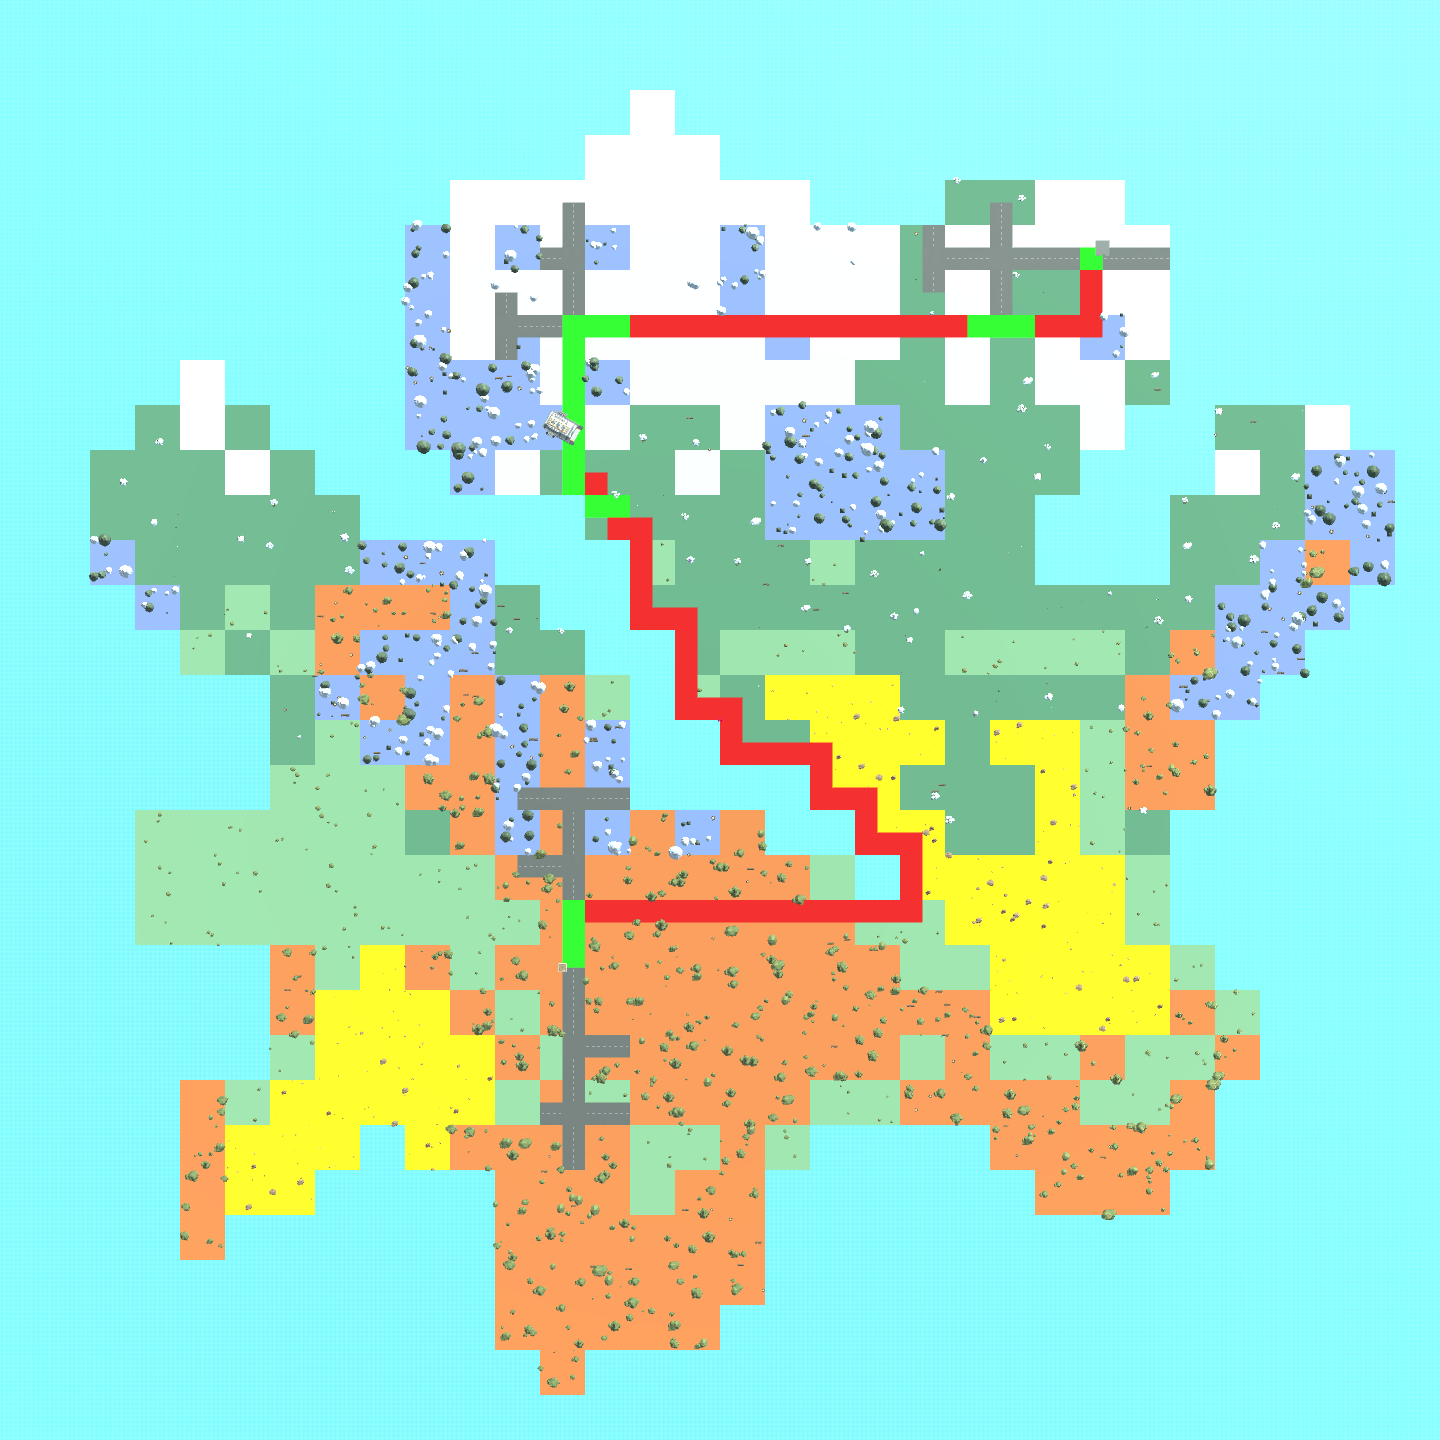
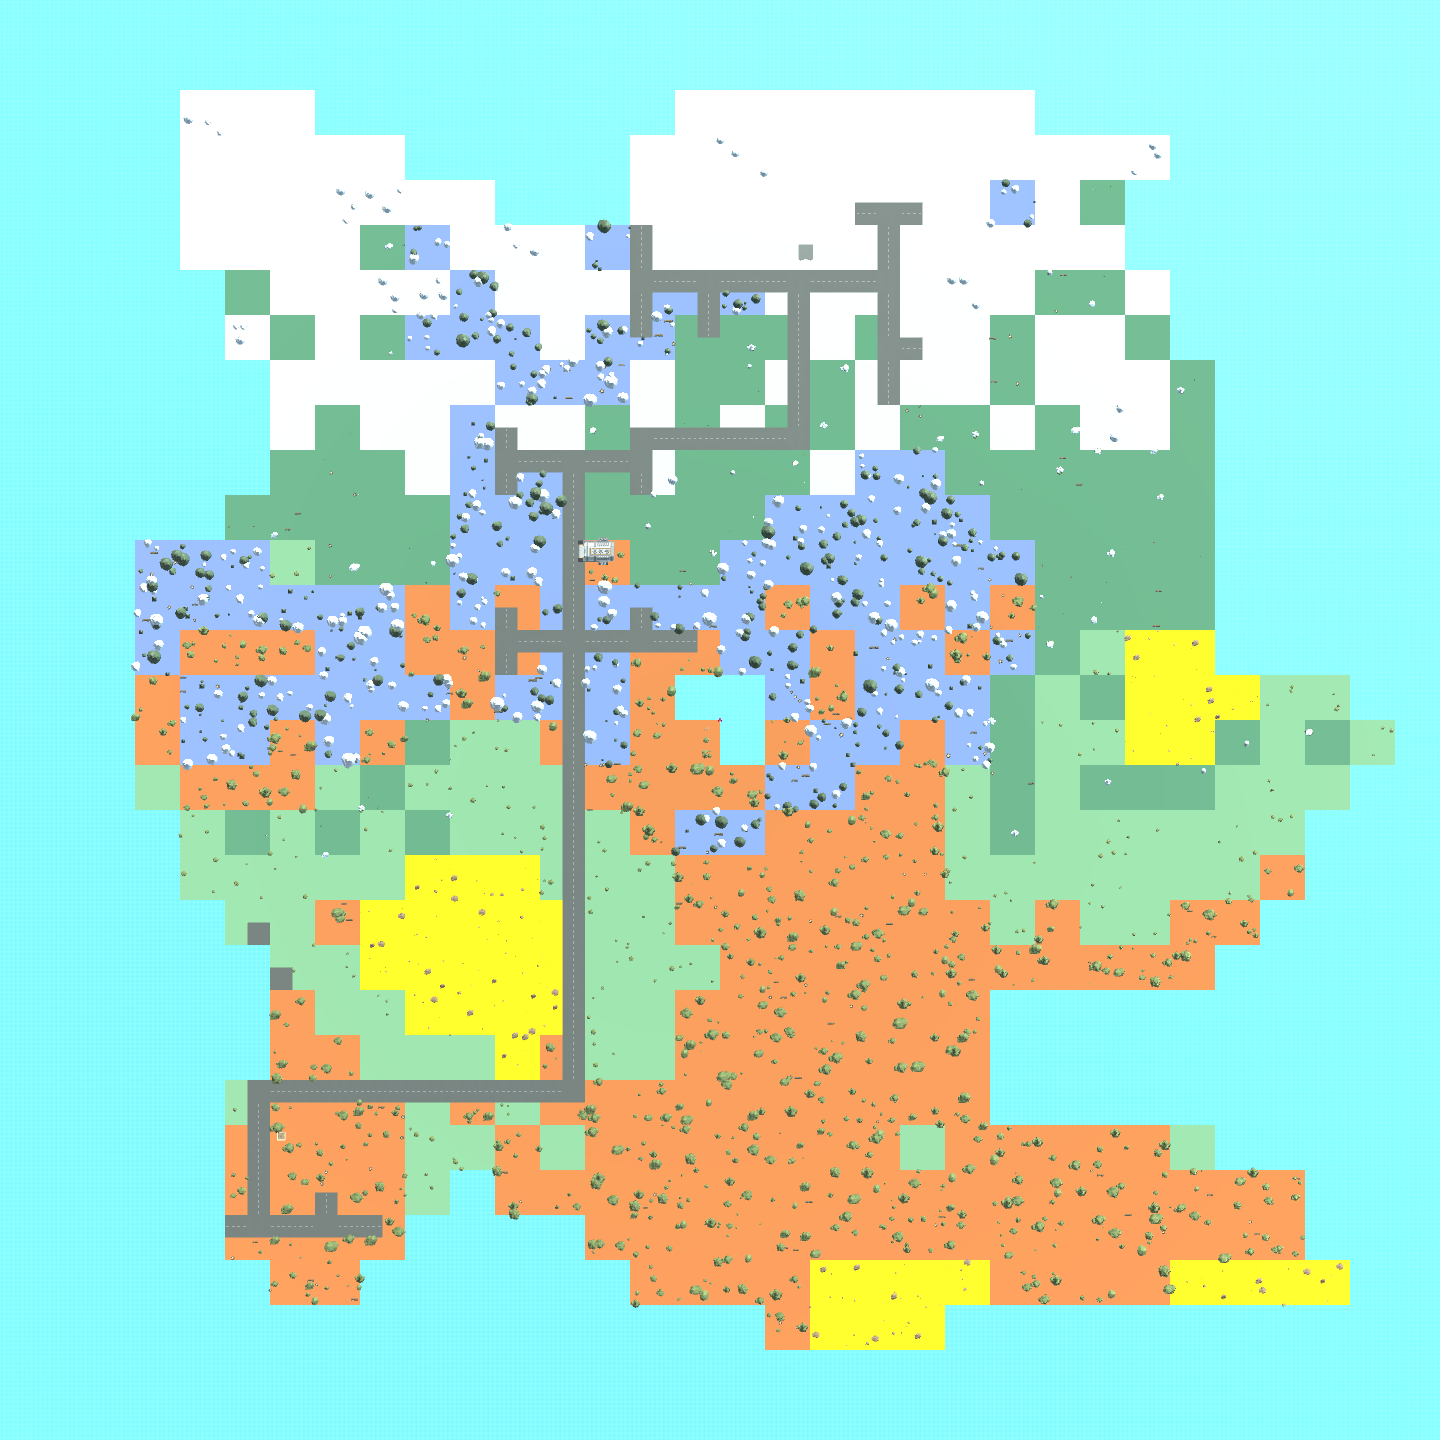
update: integrate bases into town buildings
also,
- crosshair color
- version number (release)

diff --git a/Assets/Scripts/PCG/Generators/Towns/TownGenerator.cs b/Assets/Scripts/PCG/Generators/Towns/TownGenerator.cs
@@ -1,4 +1,5 @@
 using System.Collections.Generic;
+using Managers.Quests;
 using PCG.Generators.Roads;
 using UnityEngine;
 
@@ -7,29 +8,31 @@ namespace PCG.Generators.Towns
     public class TownGenerator : MonoBehaviour
     {
         [SerializeField] private LSystem lSystem;
-        [SerializeField] private GameObject buildingPrefab;
         [SerializeField] private int initialLength = 4;
 
         [SerializeField] private RoadGridComponent roadGridComponent;
 
-        public void GenerateTowns(List<Vector3> basePositions)
+        [SerializeField] private Transform basesParent;
+        [SerializeField] private QuestsManager questsManager;
+
+        public void GenerateTownsRoads(List<Vector3> townCentersWorld)
         {
-            foreach (Vector3 basePosition in basePositions) {
-                GenerateTown(basePosition);
+            foreach (Vector3 townCenterWorld in townCentersWorld) {
+                Vector3Int centerCell = roadGridComponent.grid.WorldToCell(townCenterWorld);
+                GenerateTownRoads(centerCell);
             }
         }
 
-        private void GenerateTown(Vector3 center)
+        private void GenerateTownRoads(Vector3Int centerCell)
         {
             string sentence = lSystem.GenerateSentence();
             // Debug.Log("sentence: " + sentence);
-            ParseSentence(sentence, center);
+            ParseSentence(sentence, centerCell);
         }
 
-        private void ParseSentence(string sentence, Vector3 center)
+        private void ParseSentence(string sentence, Vector3Int cell)
         {
             Stack<TransformInfo> transformStack = new Stack<TransformInfo>();
-            Vector3Int position = roadGridComponent.grid.WorldToCell(center);
             Quaternion rotation = Quaternion.identity;
             rotation *= Quaternion.Euler(Vector3.up * 90 * Random.Range(0, 4));
             int length = initialLength;
@@ -38,10 +41,10 @@ namespace PCG.Generators.Towns
                 switch (c) {
                     case 'F':
                         for (int i = 0; i < length; i++) {
-                            if (roadGridComponent.IsWalkable(position)) {
-                                roadGridComponent.roadCells.Add(position);
+                            if (roadGridComponent.IsWalkable(cell)) {
+                                roadGridComponent.roadCells.Add(cell);
                             }
-                            position += Vector3Int.RoundToInt(rotation * Vector3.forward);
+                            cell += Vector3Int.RoundToInt(rotation * Vector3.forward);
                         }
                         length -= 1;
                         break;
@@ -54,23 +57,20 @@ namespace PCG.Generators.Towns
                     case '[':
                         // Save
                         transformStack.Push(new TransformInfo {
-                            position = position,
+                            position = cell,
                             rotation = rotation,
                             length = length
                         });
                         break;
+
                     case ']':
                         // Load
                         if (transformStack.Count > 0) {
                             TransformInfo ti = transformStack.Pop();
-                            position = ti.position;
+                            cell = ti.position;
                             rotation = ti.rotation;
                             length = ti.length;
                         }
-                        break;
-                    case 'B':
-                        GameObject building = Instantiate(buildingPrefab);
-                        building.transform.position = position;
                         break;
                     default:
                         break;
@@ -83,6 +83,65 @@ namespace PCG.Generators.Towns
             public Vector3Int position;
             public Quaternion rotation;
             public int length;
+        }
+
+        public void PlaceTownsBuildings(List<Vector3> townCentersWorld)
+        {
+            for (int i = 0; i < townCentersWorld.Count; i++) {
+                Vector3Int centerCell = roadGridComponent.grid.WorldToCell(townCentersWorld[i]);
+                PlaceTownBuildings(i, centerCell);
+            }
+        }
+
+        private void PlaceTownBuildings(int i, Vector3Int centerCell)
+        {
+            Vector3Int buildingCell = SelectCellForCentralBuilding(centerCell);
+            if (buildingCell == new Vector3Int(0, -1, 0)) {
+                return;
+            }
+
+            // Calculate position
+            Vector3 position = roadGridComponent.grid.GetCellCenterWorld(buildingCell);
+            position.y = 0;
+            // Calculate Rotation
+            List<Vector3Int> neighbors = roadGridComponent.GetNeighborCells(buildingCell);
+            Quaternion rotation = Quaternion.identity;
+            foreach (Vector3Int neighbor in neighbors) {
+                if (roadGridComponent.roadCells.Contains(neighbor)) {
+                    rotation = Quaternion.LookRotation(Vector3.Normalize(neighbor - buildingCell));
+                }
+            }
+
+            // Place base in the center
+            GameObject researchBase = Instantiate(questsManager.quests[i].basePrefab, position, rotation, basesParent);
+
+            // Assign this research base to the corresponding quest
+            questsManager.quests[i].AssignDestinationGo(researchBase);
+        }
+
+        private Vector3Int SelectCellForCentralBuilding(Vector3Int startCell)
+        {
+            Queue<Vector3Int> queue = new Queue<Vector3Int>();
+            queue.Enqueue(startCell);
+            HashSet<Vector3Int> visited = new HashSet<Vector3Int>();
+            visited.Add(startCell);
+
+            while (queue.Count > 0) {
+                Vector3Int currentCell = queue.Dequeue();
+                if (!roadGridComponent.roadCells.Contains(currentCell)) {
+                    return currentCell;
+                }
+
+                List<Vector3Int> neighbors = roadGridComponent.GetNeighborCells(currentCell);
+                foreach (Vector3Int neighbor in neighbors) {
+                    if (!visited.Contains(neighbor)) {
+                        queue.Enqueue(neighbor);
+                        visited.Add(neighbor);
+                    }
+                }
+            }
+
+            return new Vector3Int(0, -1, 0);
         }
     }
 }

diff --git a/Assets/Scripts/PCG/Generators/ActorsPlacer.cs b/Assets/Scripts/PCG/Generators/ActorsPlacer.cs
@@ -23,14 +23,12 @@ namespace PCG.Generators
         private Biome[] biomes;
 
         [Header("Environment")]
-        [SerializeField] private Transform basesParent;
         [SerializeField] private Transform foliageParent;
         [SerializeField] private Transform combatRobotsParent;
         [SerializeField] private Transform vehiclesParent;
         [SerializeField] private Transform zombiesParent;
 
         private readonly HashSet<Chunk> humanActivityChunks = new HashSet<Chunk>();
-        public List<Vector3> basePositions;
 
         private readonly float navmeshPlacementSampleDistance = 1f;
         [Header("Combat Robots")]
@@ -62,9 +60,9 @@ namespace PCG.Generators
             PlaceZombies();
         }
 
-        public void PlaceBases()
+        public List<Vector3> SelectTownPositions()
         {
-            int i = 0;
+            List<Vector3> townCenters = new List<Vector3>();
             foreach (Quest quest in questsManager.quests) {
                 List<Chunk> chunks = biomes[quest.baseBiome.GetHashCode()].chunks;
                 Chunk chunk = chunks[Random.Range(0, chunks.Count)];
@@ -72,22 +70,9 @@ namespace PCG.Generators
 
                 // Get chunk center world coordinate
                 Vector3 chunkCenter = gridComponent.GetChunkCenterWorld(chunk);
-
-                // Place base in the center
-                GameObject researchBase = Instantiate(quest.basePrefab, chunkCenter, Quaternion.identity, basesParent);
-                if (i == 1) {
-                    researchBase.transform.rotation = Quaternion.Euler(0, 120, 0);
-                } else if (i == 2) {
-                    researchBase.transform.Translate(new Vector3(-2.5f, 0, -2.5f));
-                    researchBase.transform.rotation = Quaternion.Euler(0, 180, 0);
-                }
-                basePositions.Add(researchBase.transform.position);
-
-                // Assign this research base to the corresponding quest
-                quest.AssignDestinationGo(researchBase);
-
-                i++;
+                townCenters.Add(chunkCenter);
             }
+            return townCenters;
         }
 
         public void PlacePlants()
@@ -128,7 +113,7 @@ namespace PCG.Generators
                         Ray ray = new Ray(position + Vector3.up * 1f, Vector3.down);
                         // Draw the debug ray
                         // Debug.DrawRay(position + Vector3.up * 1f, Vector3.down * 2f, Color.blue, 10f);
-                        if (Physics.Raycast(ray, out RaycastHit hitInfo, 2f, LayerMask.GetMask("Road"), QueryTriggerInteraction.Collide)) {
+                        if (Physics.Raycast(ray, out RaycastHit hitInfo, 2f, LayerMask.GetMask("Road", "Structure"), QueryTriggerInteraction.Collide)) {
                             continue;
                         }
 

diff --git a/Assets/Scripts/PCG/Generators/LevelGenerator.cs b/Assets/Scripts/PCG/Generators/LevelGenerator.cs
@@ -80,9 +80,10 @@ namespace PCG.Generators
 
             // Generate the world map
             terrainGenerator.GenerateTerrainAndBiomes();
-            actorsPlacer.PlaceBases();
-            townGenerator.GenerateTowns(actorsPlacer.basePositions);
-            highwaysGenerator.CalculateHighwayNet(actorsPlacer.basePositions);
+            List<Vector3> townPositions = actorsPlacer.SelectTownPositions();
+            townGenerator.GenerateTownsRoads(townPositions);
+            highwaysGenerator.CalculateHighwayNet(townPositions);
+            townGenerator.PlaceTownsBuildings(townPositions);
             roadGridComponent.PlaceRoadSegments();
             actorsPlacer.PlacePlants();
 
